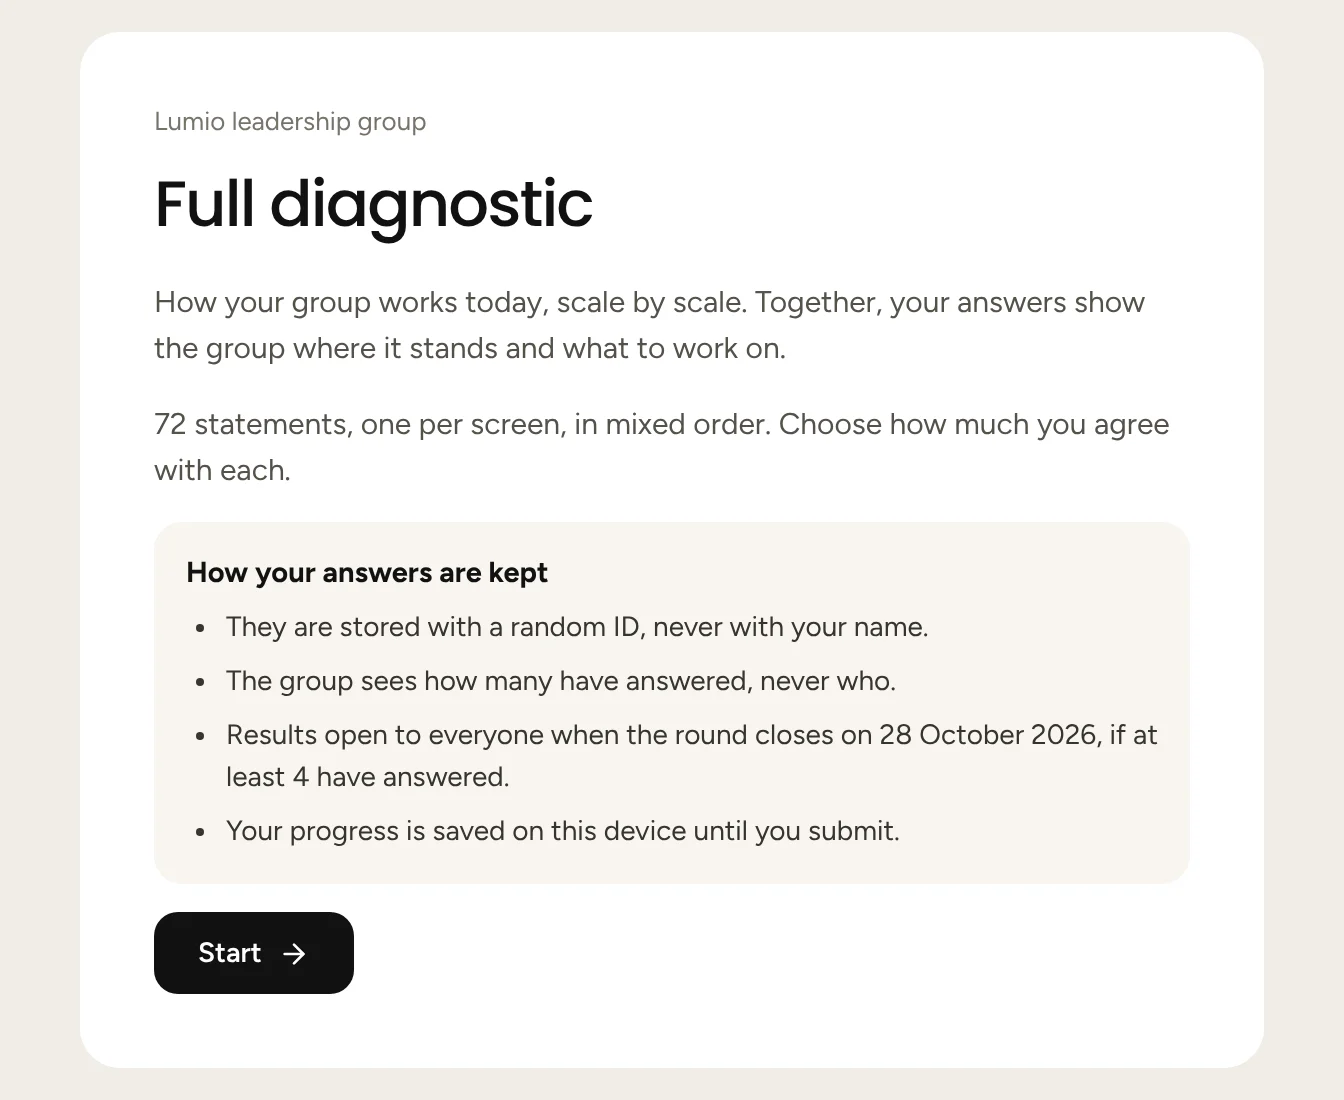
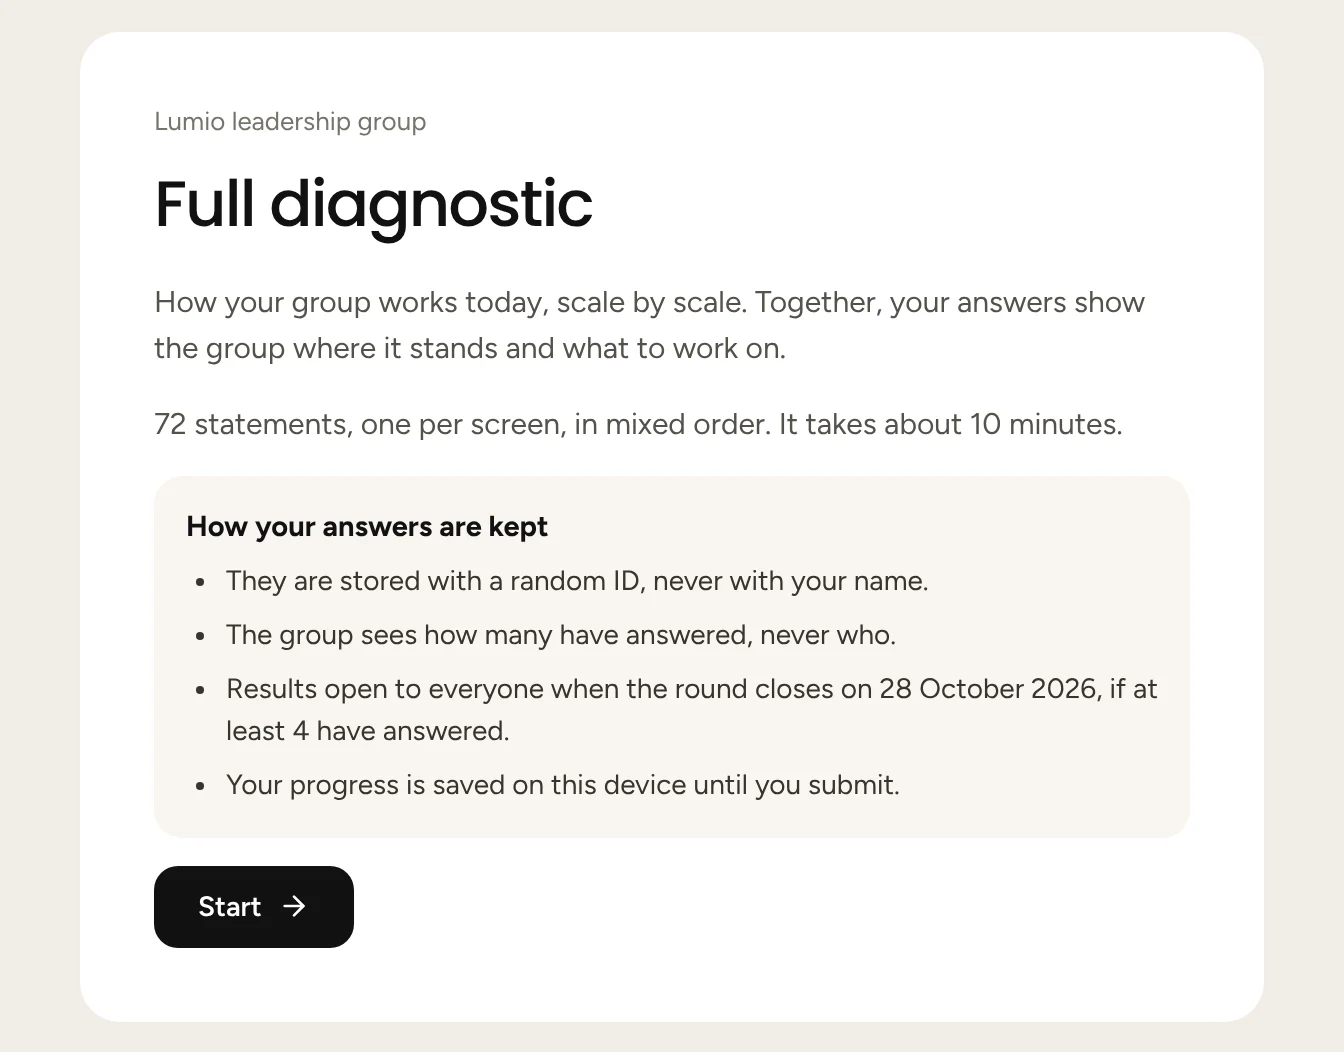
The platform's pages after milestone 11: the Full diagnostic's results, in screenshots (D-46)
Main took D-44 and D-45 while the pages waited, so they are D-46. Milestone 11 built the results in three
depths, so the Full diagnostic's page now shows them: the overview of a released round and one scale's page,
with what each shows and never shows; its "in development" box names only what is still to come (reminder
emails, focus areas, agendas, pulses). The overview's diagnostic step says what a result shows.

The fixture's --shots scenario adds a first round released from all eight, each scale with a level and a
spread of its own from its code, so the results show strength, priority, keep watching, views differ and
medium agreement. Every screenshot is taken again on main's screens, the intro now with its time to answer.

Claude-Session: https://claude.ai/code/session_0143Hstm2cFVZxJ6zoQzYsR9

diff --git a/docs/DECISIONS.md b/docs/DECISIONS.md
@@ -911,12 +911,15 @@ and several pages under a menu.
   the Leadership Team Scan, the team view, the Leader Profile, the charter and members, and the Full diagnostic.
   A feature not built has no page; the overview lists it as in development. `/platform` stays the overview,
   now with each feature's card, and its steps mark the charter and the Full diagnostic as available (milestones
-  9 and 10), the diagnostic's results pages as in development (milestone 11).
+  9 to 11). The diagnostic's page shows its results in screenshots: the overview of a released round and one
+  scale's page (D-45).
 - **Screenshots of the real app, never mock-ups.** `scripts/shots/capture.mjs` signs in as the fixture's people
   on the local stack (D-23, D-27) and photographs the pages as they render, into `public/shots/*.webp` and
   `data/shots.json`. Its rows come from the generator's new `--shots` scenario: the Lumio leadership group with
-  the design's names, its scan released from eight answers, its charter at version 2, a Full diagnostic at
-  5 of 8, Kari Nordmann's profile shared as domains, and a sales group whose scan is open at 3 of 7. Every row
+  the design's names, its scan released from eight answers, its charter at version 2, a Full diagnostic
+  released from all eight (each scale with a level and a spread of its own, so the results show every
+  standing) and a second answering at 5 of 8, Kari Nordmann's profile shared as domains, and a sales group
+  whose scan is open at 3 of 7. Every row
   goes through its write path, as each person (the fixture test holds it). Requests carry the production host,
   so an invite link reads www.leaderpact.com.
 - **Every screenshot is marked.** A "Sample data" chip on the picture and, under it, "A fictional group: every
